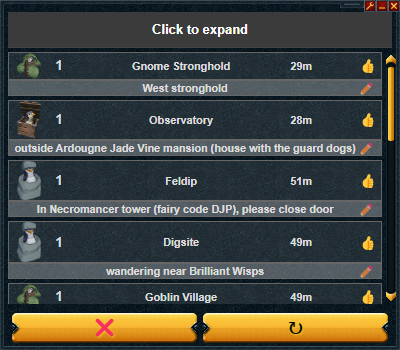
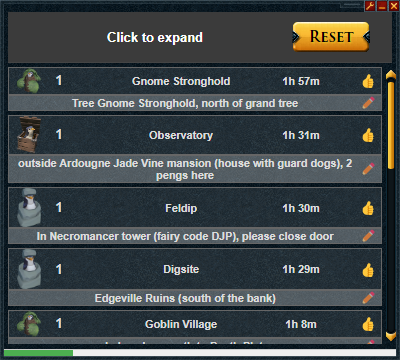
Removed bottom buttons in place of an auto-refresh progress bar (#9)

diff --git a/docs/styles.css b/docs/styles.css
@@ -6,10 +6,15 @@ body {
 #container {
   display: flex;
   flex-direction: column;
-  height: 100vh;
+  height: calc(100vh - 8px);
+  overflow: hidden;
 }
 
 .info-banner {
+  display: flex;
+  justify-content: space-between;
+  align-items: center;
+  font-weight: bold;
   background-color: #3b3b3b;
   color: #fff;
   padding: 10px 16px;
@@ -19,6 +24,28 @@ body {
   border-bottom: 1px solid #444;
   user-select: none;
   text-align: center;
+  height: 30;
+}
+#infoToggleText {
+  margin-left: auto;
+  margin-right: auto;
+  text-align: center;
+}
+
+#infoToggle button {
+  cursor: pointer;
+  font-size: 15px;
+  line-height: 1;
+  user-select: none;
+  display: inline-block;
+  align-self: center;
+  width: 80px;
+}
+
+#infoToggle button,
+#infoToggle button::after,
+#infoToggle button::before {
+  border: none;
 }
 
 ul {
@@ -29,10 +56,11 @@ ul {
   flex-direction: column;
   gap: 8px;
   list-style-position: inside;
+  list-style-type: disc;
 }
 
 ul li {
-  display: b;
+  display: list-item;
 }
 
 table {
@@ -42,7 +70,7 @@ table {
 }
 
 .pengs {
-  margin-bottom: 46px;
+  margin-bottom: 8px;
   max-height: calc(100vh - 48px);
   overflow-y: auto;
 }
@@ -55,15 +83,6 @@ table {
   font-size: small;
   margin-bottom: 4px;
   width: calc(100% - 8px);
-}
-
-.buttons {
-  width: 100%;
-  height: fit-content;
-  bottom: 0;
-  position: fixed;
-  padding-top: 2px;
-  z-index: 999;
 }
 
 .disguise,
@@ -91,16 +110,15 @@ table {
 .req {
   padding: 0px 5px 0px 5px;
   margin: 2px;
+  color: black;
 }
 
 .war {
-  color: black;
   background: gold;
   border-radius: 10%;
 }
 
 .req {
-  color: black;
   background: lightblue;
   border-radius: 50%;
 }
@@ -119,15 +137,6 @@ table {
 
 .nistable tr:nth-child(odd) {
   background: none;
-}
-
-#buttontable tr th {
-  width: calc(100% / 3);
-}
-
-.nisbutton[disabled="true"] {
-  opacity: 0.2;
-  pointer-events: none;
 }
 
 .confirm {
@@ -270,4 +279,22 @@ table {
   right: -2px;
   display: flex;
   align-items: center;
+}
+
+#progressContainer {
+  position: fixed;
+  bottom: 0;
+  left: 0;
+  width: 100%;
+  height: 6px;
+  background-color: #eee;
+  border-top: 1px solid #ccc;
+  z-index: 1000;
+}
+
+#progressBar {
+  height: 100%;
+  width: 0%;
+  background-color: #4caf50;
+  transition: width 0.1s linear;
 }

diff --git a/docs/penguin_script.ts b/docs/penguin_script.ts
@@ -25,14 +25,37 @@ type Entry = {
 function start(): void {
   reset_rows();
   refresh();
-
-  // Load info box state from local storage
   loadInfoBoxState();
+
+  // Start progress animation
+  animateProgressBar(30000);
 
   // Auto-refresh every 30 seconds
   setInterval(() => {
     refresh();
+    animateProgressBar(30000);
   }, 30000);
+}
+
+/**
+ * Animates the progress bar from 0-100% througout a duration
+ *
+ * @param duration Duration of the progress bar in ms
+ */
+function animateProgressBar(duration: number): void {
+  const bar = document.getElementById("progressBar") as HTMLElement;
+  if (!bar) return;
+
+  // Reset bar immediately
+  bar.style.transition = "none";
+  bar.style.width = "0%";
+
+  // Trigger reflow so the reset takes effect before animation
+  void bar.offsetWidth;
+
+  // Animate to 100%
+  bar.style.transition = `width ${duration}ms linear`;
+  bar.style.width = "100%";
 }
 
 /**
@@ -40,7 +63,7 @@ function start(): void {
  */
 function loadInfoBoxState(): void {
   const box = document.getElementById("infoBox");
-  const toggle = document.getElementById("infoToggle");
+  const toggle = document.getElementById("infoToggleText");
 
   if (box && toggle) {
     try {
@@ -63,7 +86,7 @@ function loadInfoBoxState(): void {
  */
 function toggleInfo(): void {
   const box = document.getElementById("infoBox");
-  const toggle = document.getElementById("infoToggle");
+  const toggle = document.getElementById("infoToggleText");
 
   if (box && toggle) {
     const newState = box.style.display === "none" ? "block" : "none";

diff --git a/docs/index.html b/docs/index.html
@@ -7,7 +7,11 @@
   </head>
   <body class="nis" onload="start()">
     <div id="container">
-      <div id="infoToggle" class="info-banner" onclick="toggleInfo()">Click to collapse</div>
+      <div id="infoToggle" class="info-banner" onclick="toggleInfo()">
+        <span id="infoToggleText">Click to collapse</span>
+        <button title="Reset Spied Penguins" class="nisbutton" id="resetButton" onclick="event.stopPropagation(); reset_rows();">Reset</button>
+      </div>
+
       <div id="infoBox" style="display: block" class="nispanel">
         <ul>
           <li>Penguins move independently on all worlds - please double check that you're on World 60.</li>
@@ -17,14 +21,10 @@
           <li>Click 👍 to confirm, or ✏ to edit a penguin's location.</li>
         </ul>
       </div>
+
       <div class="pengs"></div>
-      <div class="buttons">
-        <table id="buttonTable">
-          <tr>
-            <th title="Reset Spied Penguins" class="nisbutton" onclick="reset_rows()" id="resetButton">❌</th>
-            <th title="Refresh Penguins" class="nisbutton" onclick="manual_refresh()" id="refreshButton">↻</th>
-          </tr>
-        </table>
+      <div id="progressContainer">
+        <div id="progressBar"></div>
       </div>
     </div>
   </body>

diff --git a/docs/penguin_script.js b/docs/penguin_script.js
@@ -8,13 +8,25 @@ function start() {
     reset_rows();
     refresh();
     loadInfoBoxState();
+    animateProgressBar(30000);
     setInterval(() => {
         refresh();
+        animateProgressBar(30000);
     }, 30000);
+}
+function animateProgressBar(duration) {
+    const bar = document.getElementById("progressBar");
+    if (!bar)
+        return;
+    bar.style.transition = "none";
+    bar.style.width = "0%";
+    void bar.offsetWidth;
+    bar.style.transition = `width ${duration}ms linear`;
+    bar.style.width = "100%";
 }
 function loadInfoBoxState() {
     const box = document.getElementById("infoBox");
-    const toggle = document.getElementById("infoToggle");
+    const toggle = document.getElementById("infoToggleText");
     if (box && toggle) {
         try {
             const savedState = localStorage.getItem(INFO_BOX_STORAGE_KEY);
@@ -34,7 +46,7 @@ function loadInfoBoxState() {
 }
 function toggleInfo() {
     const box = document.getElementById("infoBox");
-    const toggle = document.getElementById("infoToggle");
+    const toggle = document.getElementById("infoToggleText");
     if (box && toggle) {
         const newState = box.style.display === "none" ? "block" : "none";
         box.style.display = newState;

diff --git a/README.md b/README.md
@@ -10,8 +10,7 @@ An [Alt1][alt1_url] plugin that uses the [Penguin Hide & Seek Discord][peng_url]
 
 | Buttons |            Usage             |
 | :-----: | :--------------------------: |
-|   ❌    | Clears all checked penguins  |
-|    ↻    |    Refreshes all penguins    |
+|  Reset  | Clears all checked penguins  |
 |   ✏    |  Edit a penguin's location   |
 |   👍    | Confirm a penguin's location |
 
